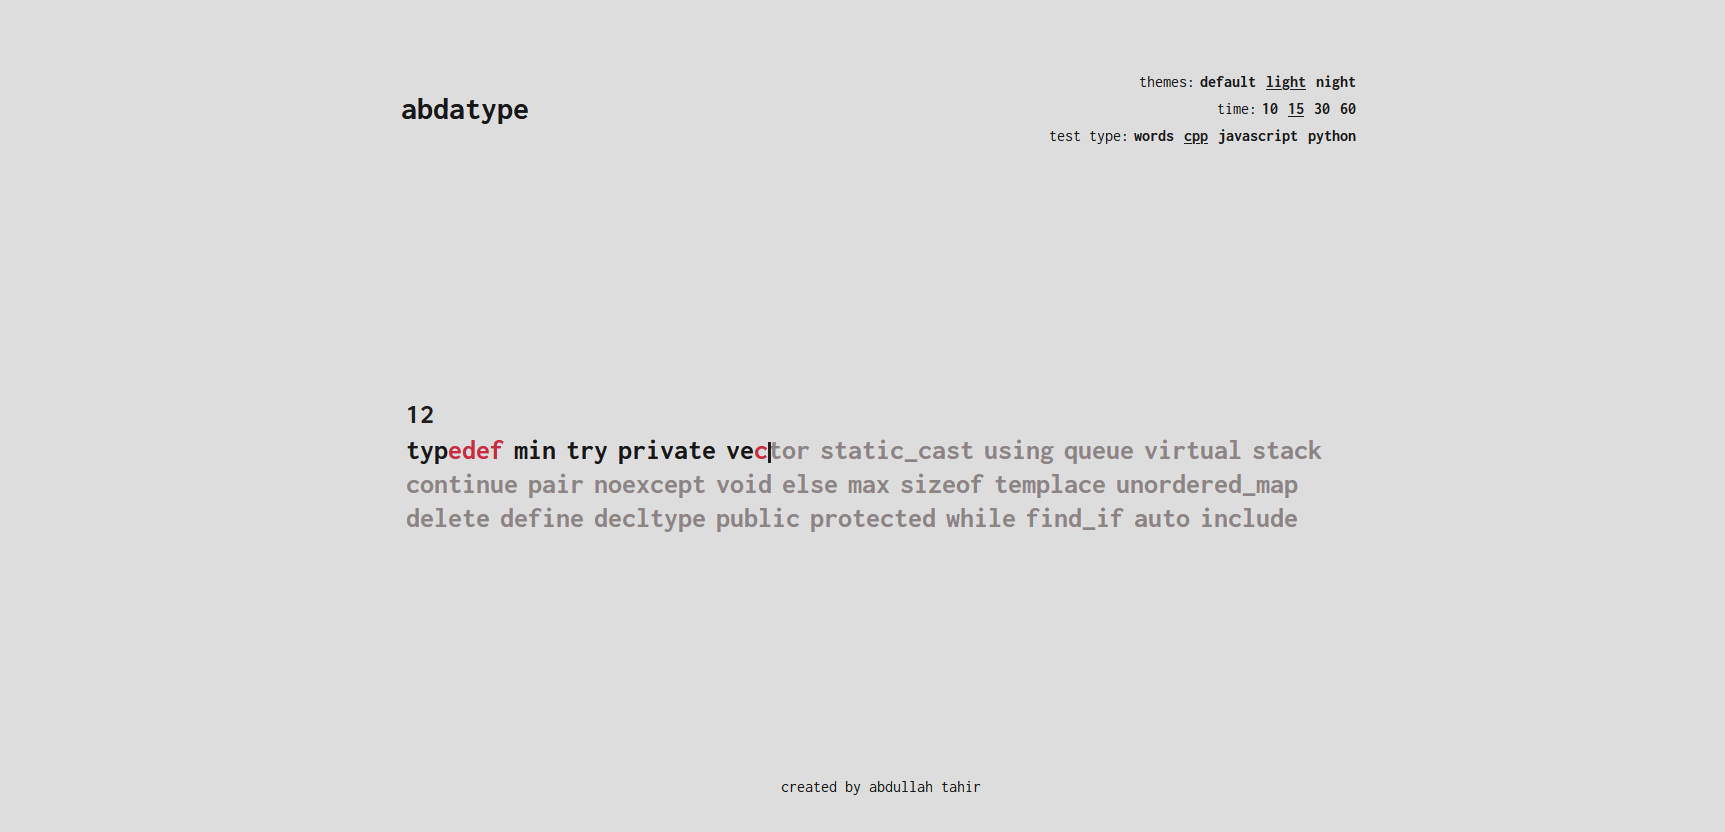
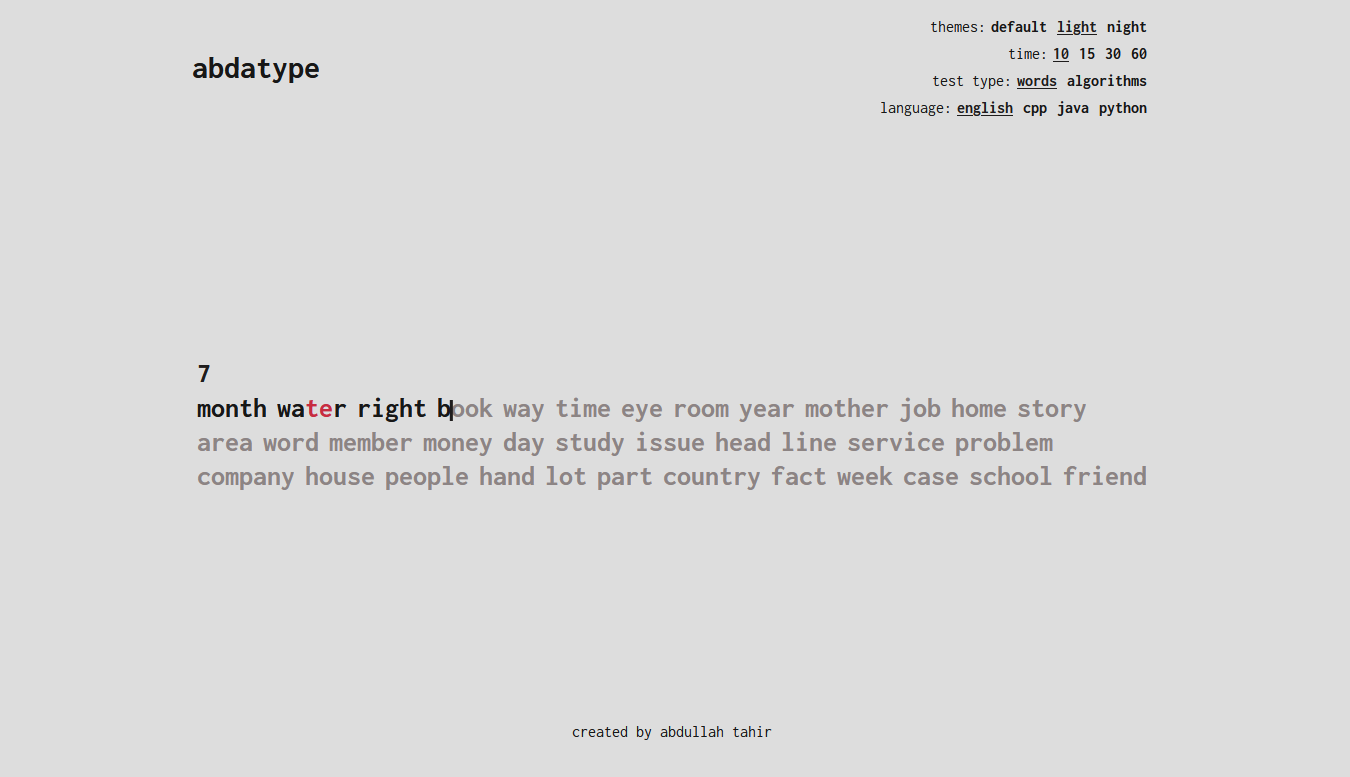
updated algoritm buttons

diff --git a/src/state/AppContext.jsx b/src/state/AppContext.jsx
@@ -1,52 +1,66 @@
 import React, {useState, createContext, useContext} from 'react';
-import words from '../dictionary/words.json';
-import cpp from '../dictionary/cppwords.json';
-import javascript from '../dictionary/javawords.json';
-import python from '../dictionary/pythonwords.json';
+import englishWords from '../dictionary/englishwords.json';
+import cppWords from '../dictionary/cppwords.json';
+import javascriptWords from '../dictionary/javawords.json';
+import pythonWords from '../dictionary/pythonwords.json';
 
 const AppContext = createContext();
 
-// redefinition for ease of use
+// Redefinition for ease of use
 export const useAppContext = () => useContext(AppContext);
 
-// manage global state variables
+// Manage global state variables
 export const AppProvider = ({children}) => {
     const [theme, setTheme] = useState('default');
     const [time, setTime] = useState(10);
-    const [wordList, setWordList] = useState(words);
+    const [wordList, setWordList] = useState(englishWords);
     const [wordType, setWordType] = useState('words');
     const [testStarted, setTestStarted] = useState(false);
     const [testCompleted, setTestCompleted] = useState(false);
-    const [initialTime, setInitialTime] = useState(10);
+    const [initialTime, setInitialTime] = useState(15);
 
+    // Algorithms selection (i hope what i do from now doesnt break everything pls)
+    const [languageSelected, setLanguageSelected] = useState('english');
+    const [testType, setTestType] = useState('words');
+
+    // Button selections
     const themeSelection = ['default', 'light', 'night'];
-    const wordTypeSelection = ['words', 'cpp', 'javascript', 'python'];
+    const testTypeSelection = ['words', 'algorithms'];
+    const languageSelection = ['english', 'cpp', 'java', 'python'];
     const timeSelection = [10, 15, 30, 60];
 
-    const updateWordList = (newType) => {
-        setWordType(newType);
+    const updateLanguage = (newType) => {
+
         let newList;
+        
         switch (newType) {
-            case 'words':
-                newList = words;
+            case 'english':
+                newList = englishWords;
+                setLanguageSelected(testType === 'words' ? 'english' : 'cpp');
                 break;
             case 'cpp':
-                newList = cpp;
+                newList = cppWords;
+                setLanguageSelected('cpp');
                 break;
-            case 'javascript':
-                newList = javascript;
+            case 'java':
+                newList = javascriptWords;
+                setLanguageSelected('java');
                 break;
             case 'python':
-                newList = python;
+                newList = pythonWords;
+                setLanguageSelected('python');
                 break;
             
             default:
-                newList = words;
+                newList = englishWords;
+                setLanguageSelected('english');
         };
         shuffleWords(newList)
     }
 
-    // Shuffle function -> could be made more efficient
+
+
+    // Shuffle function -> could be made more efficient but scale permits
     const shuffleWords = (newWordList) => {
         const shuffledList = [...newWordList].sort(() => Math.random() - 0.5);
         setWordList(shuffledList);
@@ -54,10 +68,13 @@ export const AppProvider = ({children}) => {
 
     return (
         <AppContext.Provider 
-            value={{themeSelection, wordTypeSelection, timeSelection,
+            value={{themeSelection, timeSelection, languageSelection, testTypeSelection,
+                    shuffleWords,
+                    languageSelected, setLanguageSelected, updateLanguage,
+                    testType, setTestType,
                     theme, setTheme, 
                     time, setTime, 
-                    wordList, updateWordList, 
+                    wordList,
                     wordType, setWordType, 
                     testStarted, setTestStarted,
                     testCompleted, setTestCompleted,

diff --git a/src/components/common/Header.jsx b/src/components/common/Header.jsx
@@ -1,10 +1,25 @@
-import React from 'react';
+import React, {useEffect} from 'react';
 import { useAppContext } from '../../state/AppContext';
 
 import "../../stylesheets/common/Header.scss";
 
 const Header = () => {
-    const {theme, setTheme, initialTime, setTime, setInitialTime, wordType, themeSelection, wordTypeSelection, timeSelection, updateWordList} = useAppContext();
+    const { theme, setTheme, 
+            initialTime, setTime, setInitialTime, 
+            testType, setTestType, 
+            languageSelected, setLanguageSelected, updateLanguage,
+            themeSelection, testTypeSelection, languageSelection, timeSelection } = useAppContext();
+    
+    // (Bandaid) Fix variable sync issues -> should update when testType, languageType are updated
+    useEffect(() => {
+
+        // Automatically swap to cpp
+        if (testType === 'algorithms' && languageSelected === 'english') {
+            setLanguageSelected('cpp');
+        }
+
+
+    }, [testType, languageSelected, setLanguageSelected]);
 
     return (
         <header>
@@ -14,7 +29,11 @@ const Header = () => {
                 <span className='title'>
                     themes: 
                     {themeSelection.map((sel) => (
-                        <button key={sel} onClick={() => setTheme(sel)} className={`mini ${theme === sel ? 'selected' : ''}`}>
+                        <button 
+                            key={sel} 
+                            onClick={() => setTheme(sel)} 
+                            className={`mini ${theme === sel ? 'selected' : ''}`}
+                        >
                             {sel}                    
                         </button>
                     ))}
@@ -23,7 +42,11 @@ const Header = () => {
                 <span className='title'>
                     time:
                     {timeSelection.map((sel) => (
-                        <button key={sel} onClick={() => {setTime(sel); setInitialTime(sel);}} className={`mini ${initialTime === sel ? 'selected' : ''}`}>
+                        <button 
+                            key={sel} 
+                            onClick={() => {setTime(sel); setInitialTime(sel);}} 
+                            className={`mini ${initialTime === sel ? 'selected' : ''}`}
+                        >    
                             {sel}                    
                         </button>
                     ))}
@@ -31,8 +54,26 @@ const Header = () => {
 
                 <span className='title'>
                     test type:
-                    {wordTypeSelection.map((sel) => (
-                        <button key={sel} onClick={() => {updateWordList(sel);}} className={`mini ${wordType === sel ? 'selected' : ''}`}>
+                    {testTypeSelection.map((sel) => (
+                        <button 
+                            key={sel} 
+                            onClick={() => {setTestType(sel);}} 
+                            className={`mini ${testType === sel ? 'selected' : ''}`}
+                        >
+                            {sel}                    
+                        </button>
+                    ))}
+                </span>
+                
+                <span className='title'>
+                    language:
+                    {languageSelection.map((sel) => (
+                        <button 
+                            key={sel} 
+                            onClick={() => {updateLanguage(sel);}} 
+                            disabled={testType === 'algorithms' && sel === 'english'} 
+                            className={`mini ${languageSelected === sel ? 'selected' : ''}`}
+                        >
                             {sel}                    
                         </button>
                     ))}
@@ -44,7 +85,3 @@ const Header = () => {
 };
 
 export default Header;
-
-
-
-

diff --git a/src/components/tester/Tester.jsx b/src/components/tester/Tester.jsx
@@ -8,7 +8,7 @@ import "../../stylesheets/tester/Tester.scss";
 const Tester = () => {
 
     // Variables take from global state
-    const {wordType, updateWordList, wordList, time, setTime, testStarted, setTestStarted, initialTime, testCompleted, setTestCompleted} = useAppContext();
+    const {wordList, time, setTime, testStarted, setTestStarted, initialTime, testCompleted, setTestCompleted, shuffleWords} = useAppContext();
     
     // Internval state variables
     const [currentWordIndex, setCurrentWordIndex] = useState(0);
@@ -62,7 +62,7 @@ const Tester = () => {
         setTypedWord('');
         setTypedHistory([]);
 
-        updateWordList(wordType);
+        shuffleWords(wordList);
         
         resetTimer();
         setTestStarted(false);

diff --git a/src/stylesheets/common/Header.scss b/src/stylesheets/common/Header.scss
@@ -12,6 +12,12 @@ header {
         display: flex;
         flex-direction:column;
         align-items: flex-end;
+
+        :disabled{
+            color: var(--foreground-color);
+            cursor: default;
+        }
+
     }
 
     .sign {
